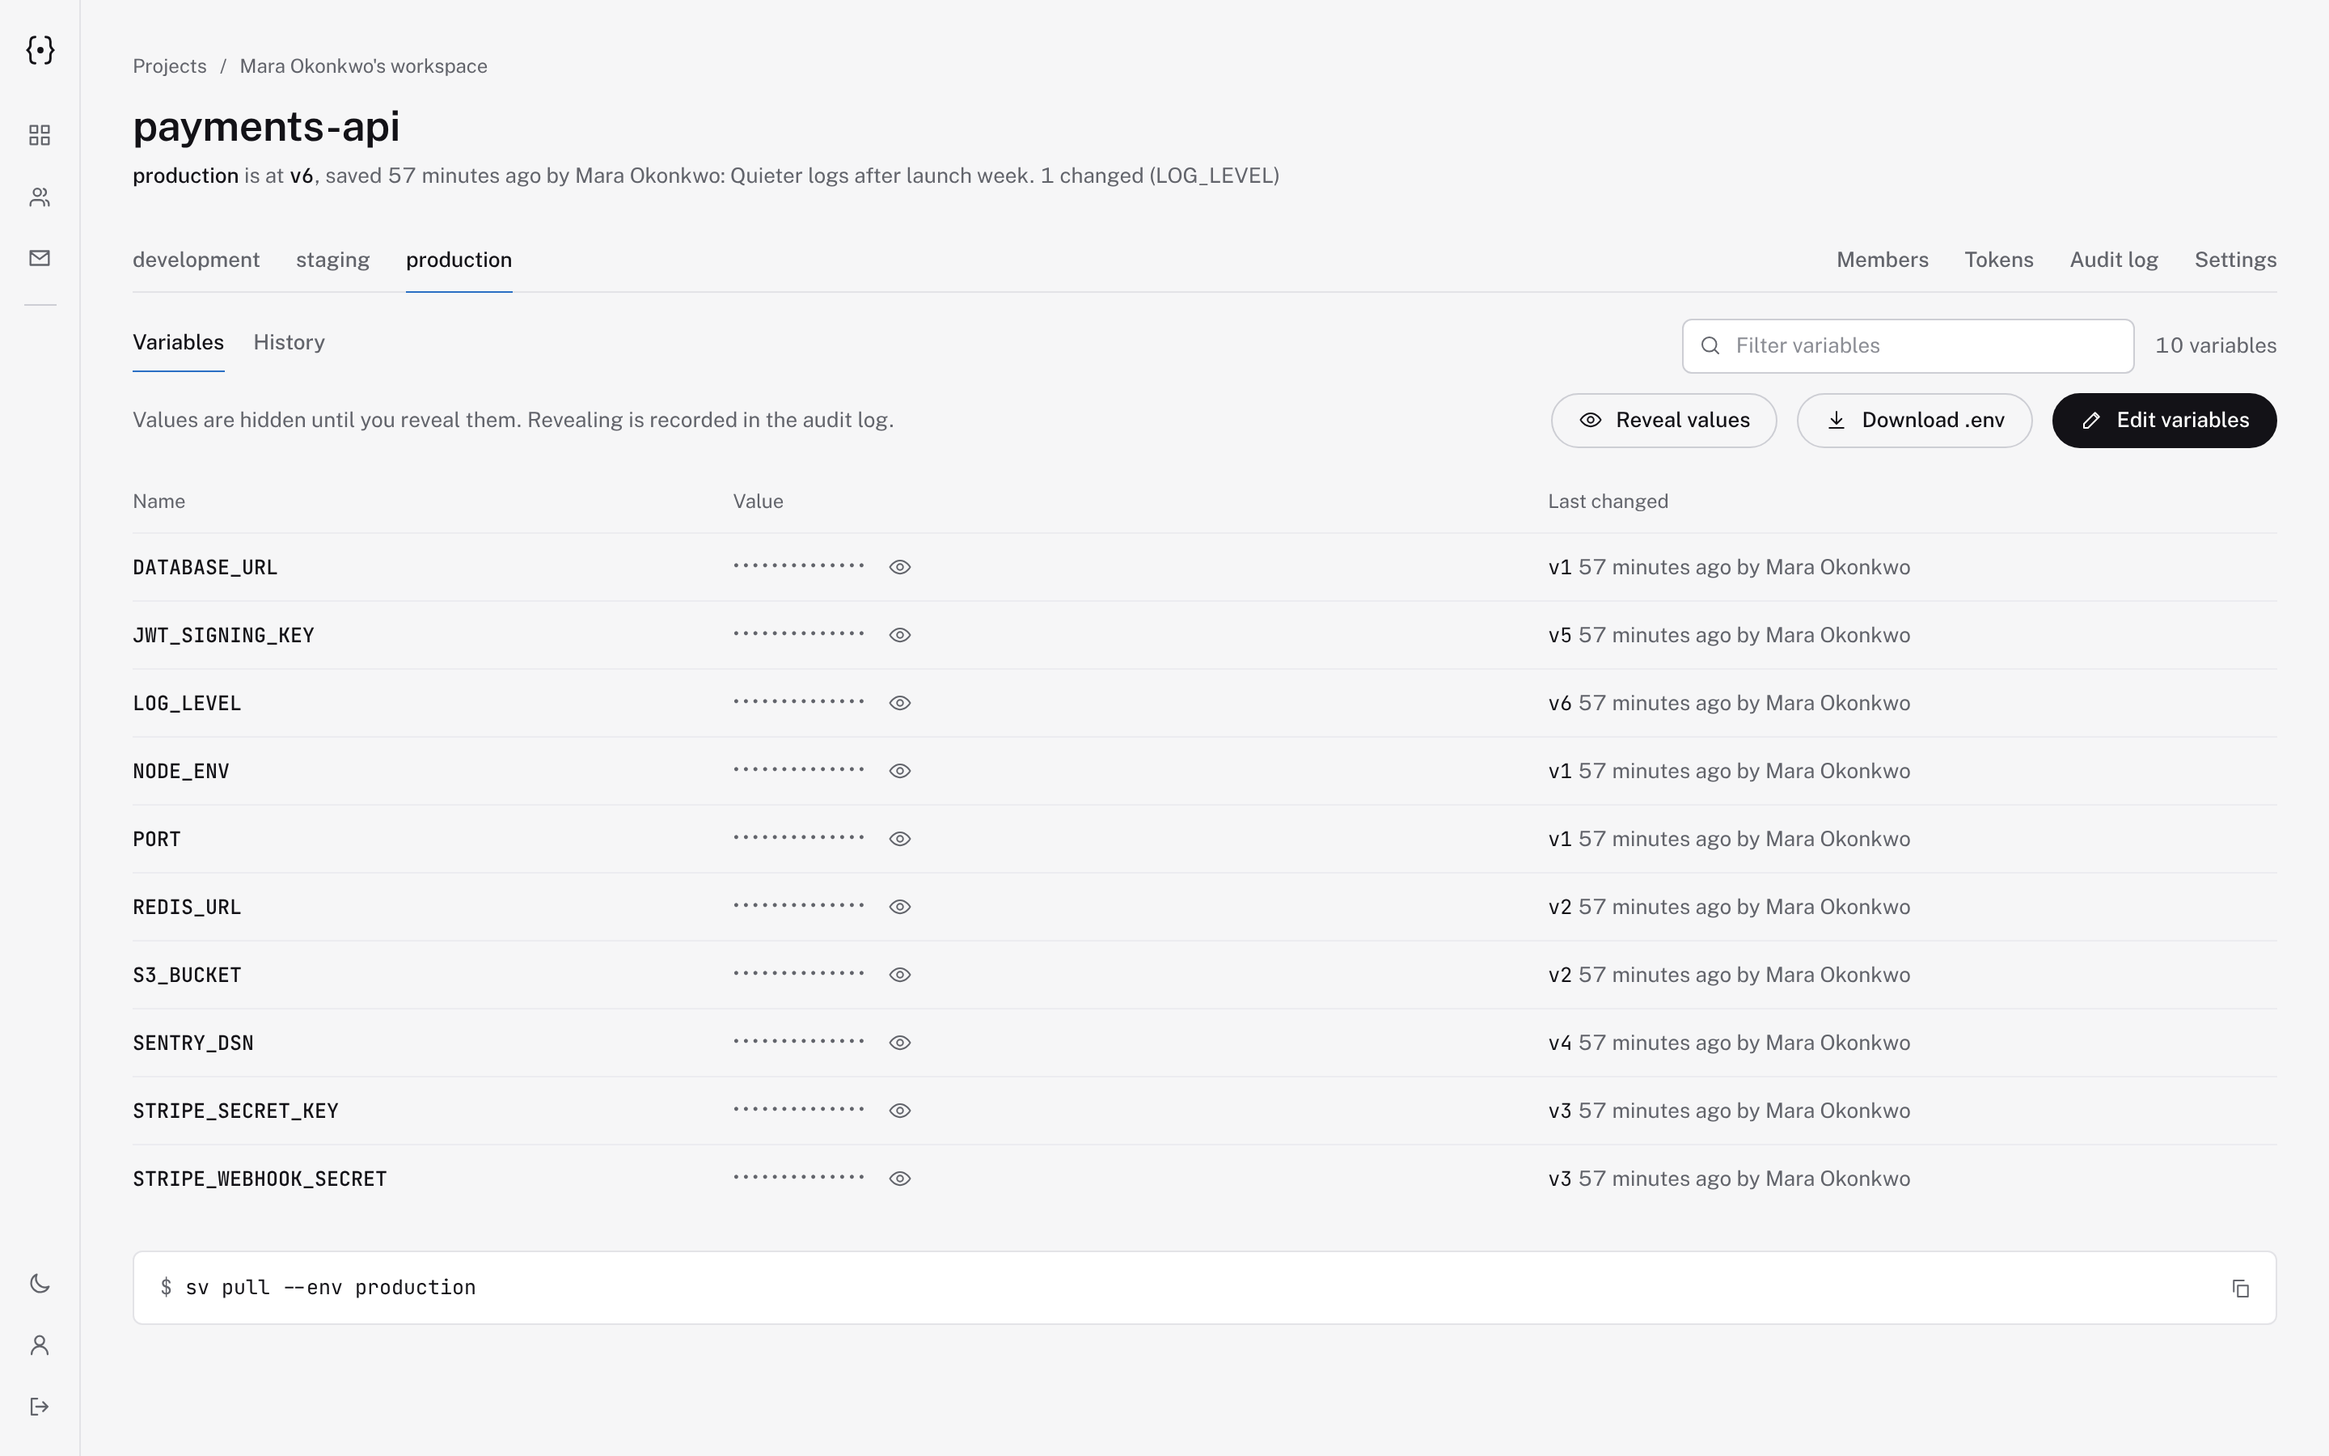
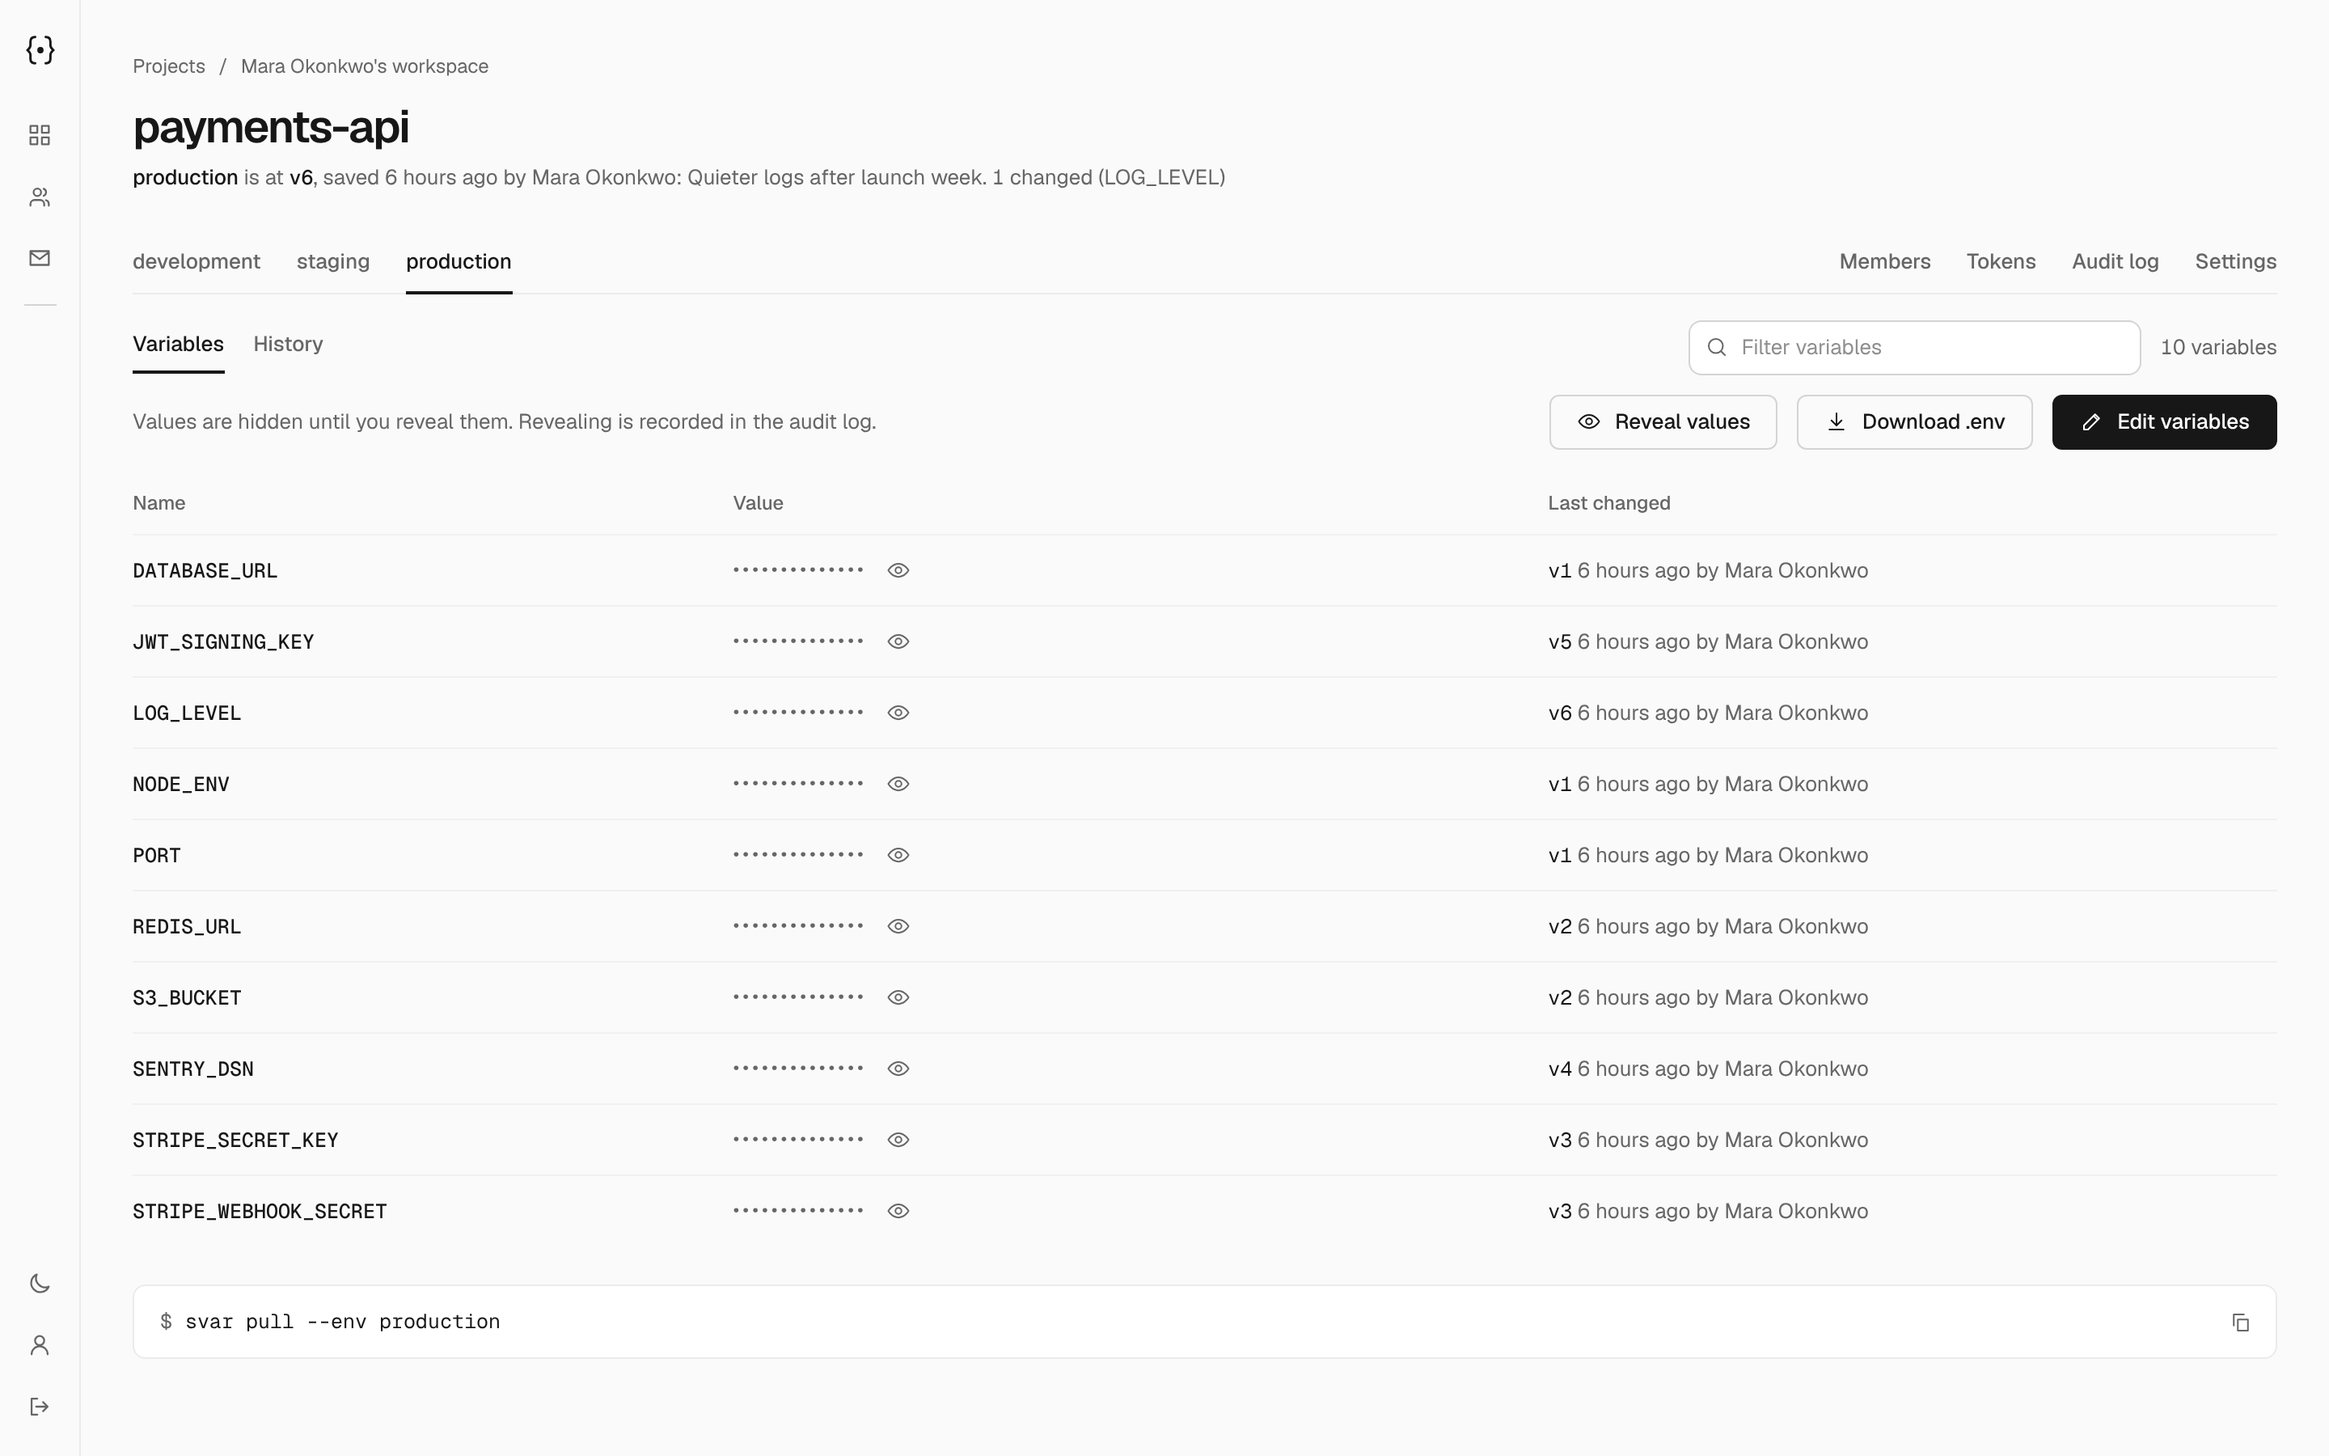
Open-source readiness: npm-ready CLI, repo cleanup, parser and server hardening
- CLI: single-file bundle with no runtime dependencies, real package metadata,
  version 0.1.0 injected from package.json, LICENSE and README in the tarball,
  pack check, CI install smoke test
- Remove test-run .env files committed by accident and the empty deploy dir;
  ignore them from now on
- .env parser: an unclosed quote no longer swallows the variables below it
- Server: Cache-Control no-store on API responses, nosniff/frame headers,
  concurrent duplicate registration answers 409 instead of 500
- Refresh README screenshots from the current UI, drop the stale desktop one
- docker-compose and .env.example: SV_PUBLIC_URL; README and CLI guide updated
- e2e: update the light-theme colour assertion for the new design

diff --git a/apps/server/src/app.ts b/apps/server/src/app.ts
@@ -22,9 +22,20 @@ export async function buildApp(config: Config, pool: pg.Pool, opts: { mailer?: M
   const mailer = opts.mailer ?? createMailer(config, (s) => app.log.info(s));
   const ctx = { pool, config, mailer };
 
+  // API responses can carry secret values: never let a browser, proxy or CDN store them.
+  app.addHook("onSend", async (req, reply) => {
+    reply.header("x-content-type-options", "nosniff");
+    reply.header("referrer-policy", "no-referrer");
+    reply.header("x-frame-options", "DENY");
+    reply.header("content-security-policy", "frame-ancestors 'none'");
+    if (req.url.startsWith("/api/") && !req.url.startsWith("/api/health")) reply.header("cache-control", "no-store");
+  });
+
   app.setErrorHandler((err, req, reply) => {
     if (err instanceof HttpError) return reply.code(err.status).send({ error: { code: err.code, message: err.message } });
     if (err instanceof ZodError) return reply.code(400).send({ error: { code: "bad_request", message: err.issues[0]?.message ?? "Invalid request" } });
+    // two requests racing to create the same unique thing (an email, a name): the loser gets a clean 409, not a 500
+    if ((err as { code?: string }).code === "23505") return reply.code(409).send({ error: { code: "conflict", message: "That already exists" } });
     const e = err as { statusCode?: number; message?: string };
     if (e.statusCode && e.statusCode < 500) return reply.code(e.statusCode).send({ error: { code: "request_error", message: e.message ?? "Bad request" } });
     req.log.error(err);

diff --git a/apps/server/test/core.test.ts b/apps/server/test/core.test.ts
@@ -13,6 +13,29 @@ describe("health", () => {
   });
 });
 
+describe("response headers", () => {
+  it("never lets API responses be cached and refuses framing", async () => {
+    const c = new Client(ctx.app);
+    const reg = await c.post("/api/v1/auth/register", { email: "headers@example.com", name: "Headers", password: "a long password!" });
+    const r = await ctx.app.inject({ method: "GET", url: "/api/v1/me", headers: { authorization: `Bearer ${reg.body.token}` } });
+    expect(r.headers["cache-control"]).toBe("no-store");
+    expect(r.headers["x-content-type-options"]).toBe("nosniff");
+    expect(r.headers["x-frame-options"]).toBe("DENY");
+    expect(r.headers["content-security-policy"]).toBe("frame-ancestors 'none'");
+    expect((await ctx.app.inject({ method: "GET", url: "/api/health" })).headers["cache-control"]).toBeUndefined();
+  });
+});
+
+describe("races", () => {
+  it("answers 409, not 500, when the same email registers twice at once", async () => {
+    const body = { email: "race@example.com", name: "Race", password: "a long password!" };
+    const results = await Promise.all(Array.from({ length: 6 }, () => new Client(ctx.app).post("/api/v1/auth/register", body)));
+    const codes = results.map((r) => r.status).sort();
+    expect(codes.filter((c) => c === 201)).toHaveLength(1);
+    expect(codes.filter((c) => c === 409)).toHaveLength(5);
+  });
+});
+
 describe("auth", () => {
   it("registers, logs in, returns me, logs out", async () => {
     const c = new Client(ctx.app);

diff --git a/packages/shared/src/env.test.ts b/packages/shared/src/env.test.ts
@@ -2,6 +2,19 @@ import { describe, expect, it } from "vitest";
 import { diffEnv, envEqual, parseEnv, serializeEnv } from "./env.js";
 
 describe("parseEnv", () => {
+  it("does not let an unclosed quote swallow the variables below it", () => {
+    expect(parseEnv('A="abc\nB=2\nC=3\n')).toEqual({ A: '"abc', B: "2", C: "3" });
+    expect(parseEnv("A='abc\nB=2\n")).toEqual({ A: "'abc", B: "2" });
+    // a quote that does close later still spans lines
+    expect(parseEnv('A="one\ntwo"\nB=2')).toEqual({ A: "one\ntwo", B: "2" });
+  });
+  it("copes with a byte-order mark, CRLF line endings and empty quoted values", () => {
+    expect(parseEnv("\uFEFFA=1\r\nB=\"\"\r\nC=''")).toEqual({ A: "1", B: "", C: "" });
+  });
+  it("round-trips awkward values through serializeEnv", () => {
+    const awkward = ["", " ", "a b", "#x", "a#b", "=", "\"", "'", "\\", "\\n", "line1\nline2", "tab\there", "$HOME", "é😀", "  lead", "trail  ", "a=b=c"];
+    for (const v of awkward) expect(parseEnv(serializeEnv({ KEY: v })).KEY).toBe(v);
+  });
   it("parses basics, comments, export and inline comments", () => {
     const m = parseEnv(`# c\nA=1\nexport B = two\nC=three # note\n\nD=#notcomment\n`);
     expect(m).toEqual({ A: "1", B: "two", C: "three", D: "#notcomment" });

diff --git a/packages/shared/src/env.ts b/packages/shared/src/env.ts
@@ -21,13 +21,21 @@ export function parseEnv(text: string): EnvMap {
     const q = rest[0];
     if (q === '"' || q === "'") {
       // quoted value, possibly spanning lines
+      const startLine = i;
       let body = rest.slice(1);
       let closed = findClosing(body, q);
       while (closed < 0 && i + 1 < lines.length) {
         body += "\n" + lines[++i]!;
         closed = findClosing(body, q);
       }
-      const inner = closed >= 0 ? body.slice(0, closed) : body;
+      if (closed < 0) {
+        // The quote never closes. Do not let one stray quote swallow every variable below it:
+        // keep the line as a plain value (quote included) and carry on from the next line.
+        i = startLine;
+        out[key] = rest.trim();
+        continue;
+      }
+      const inner = body.slice(0, closed);
       out[key] = q === '"' ? unescapeDouble(inner) : inner;
     } else {
       // unquoted: strip inline comment preceded by whitespace

diff --git a/apps/cli/test/cli.test.ts b/apps/cli/test/cli.test.ts
@@ -5,7 +5,7 @@ import { afterAll, beforeAll, describe, expect, it } from "vitest";
 import { base32Decode, generateKey, totpCode } from "@secretvariable/crypto";
 import { buildApp } from "../../server/src/app.js";
 import { createPool, migrate } from "../../server/src/db.js";
-import { main } from "../src/cli.js";
+import { main, VERSION } from "../src/cli.js";
 import type { IO } from "../src/io.js";
 
 const DB = process.env.TEST_DATABASE_URL ?? "postgres://postgres@localhost:5432/secretvariable_test";
@@ -23,6 +23,11 @@ beforeAll(async () => {
   close = async () => { await app.close(); await pool.end(); };
 });
 afterAll(async () => { await close(); });
+
+it("reports the version in package.json", () => {
+  const pkg = JSON.parse(readFileSync(new URL("../package.json", import.meta.url), "utf8")) as { version: string };
+  expect(VERSION).toBe(pkg.version);
+});
 
 class Machine {
   home = mkdtempSync(join(tmpdir(), "sv-home-"));

diff --git a/apps/cli/src/cli.ts b/apps/cli/src/cli.ts
@@ -2,7 +2,9 @@ import * as c from "./commands.js";
 import { parseArgs } from "./args.js";
 import { CliError, type IO } from "./io.js";
 
-export const VERSION = "0.1.0";
+declare const __PKG_VERSION__: string | undefined;
+/** Injected from package.json by the bundler; falls back to the package.json value when run from source (tests, tsx). */
+export const VERSION: string = typeof __PKG_VERSION__ === "string" ? __PKG_VERSION__ : "0.1.0";
 
 const HELP = `secretvariable ${VERSION}: store and sync .env files
 

diff --git a/README.md b/README.md
@@ -19,8 +19,8 @@ Teams keep `.env` files in chat threads, password managers and the heads of whoe
 - **Versions, diffs, rollback.** Saving creates `v1, v2, v3 ...`. Compare any two versions (key names by default, values only on request) and roll back by saving an old version as a new one. Nothing is rewritten.
 - **Encrypted at rest.** AES-256-GCM envelope encryption: a master key you control wraps a data key per project, and every value is sealed with its own nonce and bound to its key and version.
 - **Access control.** Admin, editor and viewer roles, plus per-environment access: give a contractor read access to `staging` only. Hidden environments simply do not exist for them.
-- **Invitations.** Single-use, email-bound links with an expiry you choose (1-30 days) that admins can extend. No mail server required.
-- **Two-step verification.** Authenticator app (QR setup), email codes as a backup, and single-use recovery codes. Email needs an SMTP server; everything else works without.
+- **Invitations.** Single-use, email-bound links with an expiry you choose (1-30 days) that admins can extend. Share the link yourself, or, if you configure SMTP, have the server email it (and resend it) for you.
+- **Two-step verification.** Authenticator app (QR setup), email codes as a backup, and single-use recovery codes. Email codes need an SMTP server; everything else works without.
 - **Web app, CLI and desktop shell.** View and edit variables in the browser (masked until you reveal them; light and dark themes), `pull`/`push`/`run` from the terminal, or use the Tauri desktop wrapper.
 - **CI-friendly tokens.** Project- and environment-scoped, read-only or read/write service tokens that expire and can be revoked.
 - **Audit log.** Who read, changed or shared what, and when. Secret values are never written to it.
@@ -35,11 +35,9 @@ Teams keep `.env` files in chat threads, password managers and the heads of whoe
 | ![Comparing two versions](assets/screenshots/compare.png) | ![Projects overview](assets/screenshots/projects.png) |
 | ![Inviting someone to selected environments](assets/screenshots/invite.png) | |
 
-Phone layout and the native desktop app (Tauri):
+Phone layout:
 
 <img src="assets/screenshots/mobile.png" width="260" alt="Phone layout" />
-
-![The desktop app showing the projects overview](assets/screenshots/desktop.png)
 
 </details>
 
@@ -64,7 +62,7 @@ Open <http://localhost:8080>, create your account (you become the owner of a per
 The command is `svar` (the long name `secretvariable` works too).
 
 ```bash
-npm install -g @secretvariable/cli     # once published; until then see guide/cli.md to build it
+npm install -g @secretvariable/cli     # Node 20+; or build it from source, see guide/cli.md
 svar login --server https://secrets.example.com
 cd my-project
 svar init                    # link this folder to a project
@@ -84,7 +82,7 @@ In CI, set `SECRETVARIABLE_URL` and `SECRETVARIABLE_TOKEN` (a read-only service 
 apps/server   Fastify + PostgreSQL API (auth, orgs, projects, environments, versions, audit)
 apps/web      React + Vite web app, served by the server
 apps/cli      the `secretvariable` command
-apps/desktop  Tauri shell around your server's web app
+apps/desktop  optional Tauri shell around your server's web app
 packages/crypto  envelope encryption primitives (AES-256-GCM)
 packages/shared  .env parser/serializer/diff and shared types
 ```

diff --git a/apps/cli/README.md b/apps/cli/README.md
@@ -1,13 +1,42 @@
-# secretvariable CLI
+# @secretvariable/cli
 
-Pull, push and run `.env` files stored in a SecretVariable server.
+The command-line tool for [SecretVariable](https://github.com/OxygenOP/SecretVariable), an open-source, self-hosted home for your team's `.env` files. Pull, push and run versioned environment variables from your terminal.
+
+```bash
+npm install -g @secretvariable/cli     # Node.js 20+, no other dependencies
+svar --version
+```
+
+The program is installed under two names: **`svar`** (short) and `secretvariable`.
+
+## Quick start
 
 ```bash
 svar login --server https://secrets.example.com
-svar init                 # link this folder to a project
-svar pull                 # write .env from the current environment
-svar push -m "rotate key" # upload .env as a new version
-svar run -- npm start     # inject variables without writing a file
+cd my-project
+svar init                    # link this folder to a project and environment
+svar pull                    # write .env from the current environment
+svar push -m "rotate Stripe key"   # upload .env as a new version
+svar run -- npm start        # inject variables without writing a file
+svar log                     # version history
+svar diff 3 4                # key names that changed (values only with --reveal)
+svar rollback 3              # save version 3 as a new version
 ```
 
-Run `svar help` for every command. For CI, set `SECRETVARIABLE_URL` and `SECRETVARIABLE_TOKEN` (a service token from `svar token create`) instead of logging in.
+In CI, set `SECRETVARIABLE_URL` and `SECRETVARIABLE_TOKEN` (a read-only service token from `svar token create`) instead of logging in.
+
+Invite teammates with `svar invite dana@example.com --role viewer --envs staging`; add `--send-email` to have the server email the link (needs SMTP on the server).
+
+## Requirements
+
+You need a SecretVariable server to talk to. It is a single Docker image plus PostgreSQL: see the [self-hosting guide](https://github.com/OxygenOP/SecretVariable/blob/main/guide/self-hosting.md). The full command reference is in the [CLI guide](https://github.com/OxygenOP/SecretVariable/blob/main/guide/cli.md).
+
+## Security notes
+
+- Credentials are stored in `~/.config/secretvariable/config.json` with mode `0600`. Your password is never stored.
+- `svar pull` writes `.env` with mode `0600`.
+- Values are never printed unless you ask (`--reveal`).
+
+## License
+
+MIT

diff --git a/guide/cli.md b/guide/cli.md
@@ -4,10 +4,11 @@ Installing the package gives you two names for the same program: **`svar`** (sho
 
 ## Install
 
-Once published to npm:
+From npm (Node.js 20+; the package is one file with no dependencies):
 
 ```bash
 npm install -g @secretvariable/cli
+svar --version
 ```
 
 From source (Node.js 20+, pnpm):
